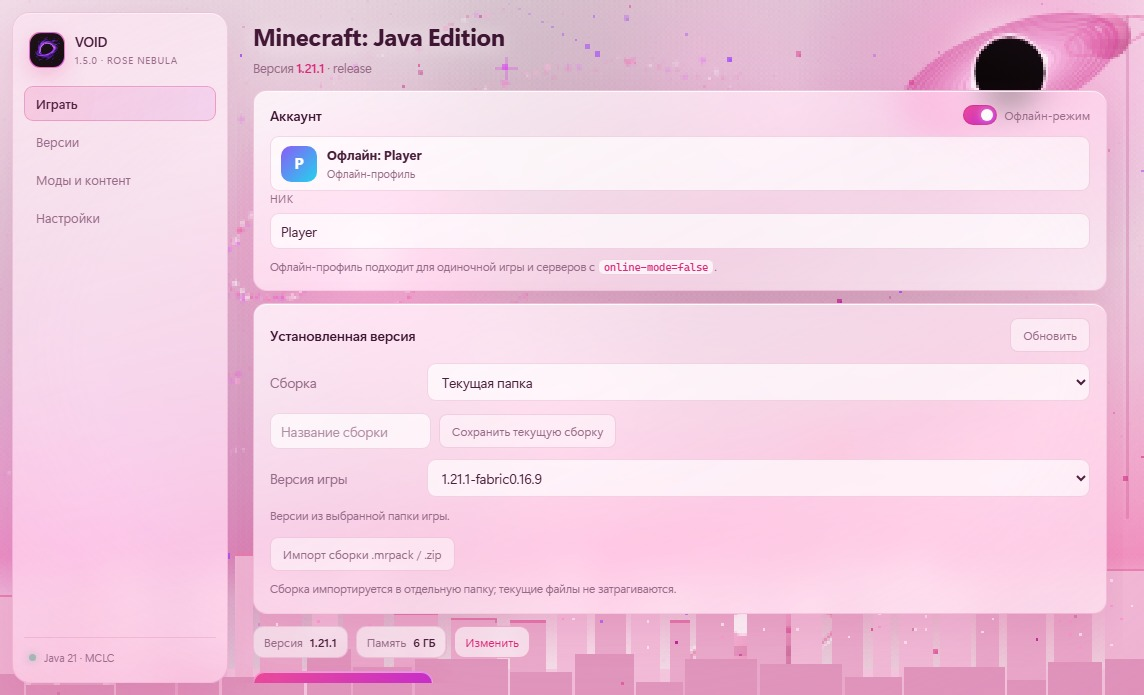
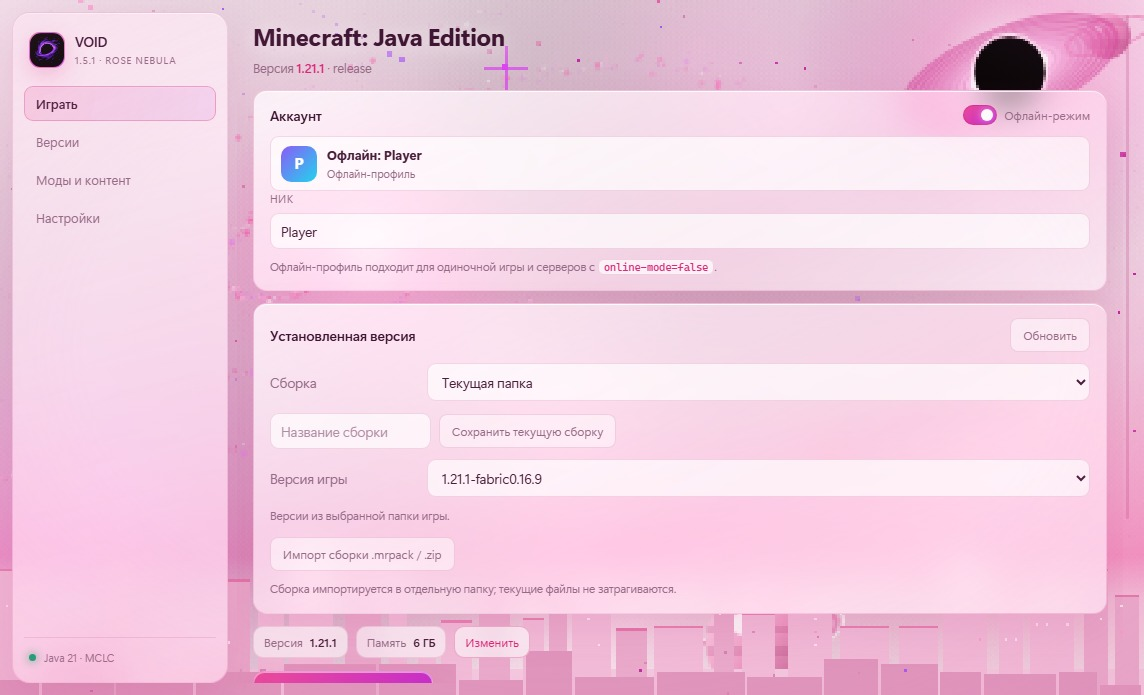
chore: версия 1.5.1

diff --git a/site/index.html b/site/index.html
@@ -82,7 +82,7 @@
       </section>
 
       <section class="download section" id="download">
-        <div class="download-panel"><div class="download-glow"></div><div class="eyebrow">ТВОЯ СЛЕДУЮЩАЯ ИГРА НАЧИНАЕТСЯ ЗДЕСЬ</div><h2>Готов нырнуть<br /><em>в VOID?</em></h2><p>Выбирай установщик или portable-версию. Для запуска Minecraft понадобится Java; её можно установить через настройки лаунчера.</p><div class="download-actions"><a class="button primary" id="setupLink" href="./downloads/VOID-Setup-1.5.0.exe" download>Установщик <span>↓</span></a><a class="button secondary" id="portableLink" href="./downloads/VOID-Portable-1.5.0.exe" download>Portable EXE <span>↓</span></a></div><div class="download-meta"><span>VERSION <b class="js-version">1.5.0</b></span><span>WINDOWS 10/11 · X64</span><span>БЕЗ ЦИФРОВОЙ ПОДПИСИ</span><a id="allReleases" href="https://github.com/Dosh1rac/my-mc-launcher/releases" target="_blank" rel="noopener">ВСЕ ВЕРСИИ ↗</a></div><p class="download-note">Файлы скачиваются с GitHub Releases. Windows может показать предупреждение SmartScreen: приложение пока не подписано сертификатом.</p></div>
+        <div class="download-panel"><div class="download-glow"></div><div class="eyebrow">ТВОЯ СЛЕДУЮЩАЯ ИГРА НАЧИНАЕТСЯ ЗДЕСЬ</div><h2>Готов нырнуть<br /><em>в VOID?</em></h2><p>Выбирай установщик или portable-версию. Для запуска Minecraft понадобится Java; её можно установить через настройки лаунчера.</p><div class="download-actions"><a class="button primary" id="setupLink" href="./downloads/VOID-Setup-1.5.1.exe" download>Установщик <span>↓</span></a><a class="button secondary" id="portableLink" href="./downloads/VOID-Portable-1.5.1.exe" download>Portable EXE <span>↓</span></a></div><div class="download-meta"><span>VERSION <b class="js-version">1.5.1</b></span><span>WINDOWS 10/11 · X64</span><span>БЕЗ ЦИФРОВОЙ ПОДПИСИ</span><a id="allReleases" href="https://github.com/Dosh1rac/my-mc-launcher/releases" target="_blank" rel="noopener">ВСЕ ВЕРСИИ ↗</a></div><p class="download-note">Файлы скачиваются с GitHub Releases. Windows может показать предупреждение SmartScreen: приложение пока не подписано сертификатом.</p></div>
       </section>
 
       <section class="faq section" id="faq"><div class="eyebrow">ПЕРЕД СТАРТОМ</div><h2>Частые вопросы</h2><details><summary>VOID бесплатный?</summary><p>Да. Для игры на серверах с проверкой аккаунта потребуется лицензия Minecraft и поддерживаемый вход Microsoft.</p></details><details><summary>Нужна ли Java?</summary><p>Для запуска Minecraft нужна совместимая Java. Её можно выбрать вручную или установить в настройках VOID.</p></details><details><summary>Можно ли импортировать сборки?</summary><p>В лаунчере предусмотрен импорт .mrpack и .zip. Совместимость конкретных сборок и загрузчиков может зависеть от их содержимого.</p></details><details><summary>Нужен ли аккаунт Microsoft?</summary><p>Для одиночной игры нет — включи офлайн-режим и выбери ник. Для серверов с лицензионной проверкой и скинов нажми «Войти» в карточке аккаунта: лаунчер покажет код, его нужно ввести на сайте Microsoft. Сессия сохраняется, повторно входить не придётся.</p></details><details><summary>Это официальный лаунчер Mojang?</summary><p>Нет. VOID — независимый проект и не связан с Mojang или Microsoft.</p></details></section>

diff --git a/electron/renderer/index.html b/electron/renderer/index.html
@@ -24,7 +24,7 @@
           <div class="logo"><img src="./void.png" alt="VOID" /></div>
           <div>
             <div class="brand-name">VOID</div>
-            <div class="brand-sub" id="brandSub">1.5.0 · deep space</div>
+            <div class="brand-sub" id="brandSub">1.5.1 · deep space</div>
             <button class="update-badge hidden" id="updateBadge" type="button"></button>
           </div>
         </div>

diff --git a/site/config.js b/site/config.js
@@ -6,4 +6,4 @@ export const REPO = "Dosh1rac/my-mc-launcher";
 
 // Версия, которая показывается до того, как сайт получит данные
 // о последнем релизе с GitHub API.
-export const FALLBACK_VERSION = "1.5.0";
+export const FALLBACK_VERSION = "1.5.1";

diff --git a/electron/renderer/renderer.ts b/electron/renderer/renderer.ts
@@ -221,7 +221,7 @@ const THEME_SUBS: Record<Theme, string> = {
   pink: "rose nebula",
 };
 
-let appVersion = "1.5.0";
+let appVersion = "1.5.1";
 
 const brandSub = $<HTMLElement>("brandSub");
 

diff --git a/README.md b/README.md
@@ -1,6 +1,6 @@
 # VOID — лаунчер Minecraft
 
-**Сайт:** https://dosh1rac.github.io/my-mc-launcher/ · **Скачать:** [Releases](https://github.com/Dosh1rac/my-mc-launcher/releases) · **Версия:** 1.5.0
+**Сайт:** https://dosh1rac.github.io/my-mc-launcher/ · **Скачать:** [Releases](https://github.com/Dosh1rac/my-mc-launcher/releases) · **Версия:** 1.5.1
 
 Лаунчер Minecraft с графическим интерфейсом на Electron: версии и загрузчики, каталог Modrinth, профили, импорт сборок и автоустановка Java. Внутри — общее ядро запуска, которое используют и GUI, и консольный режим.
 
